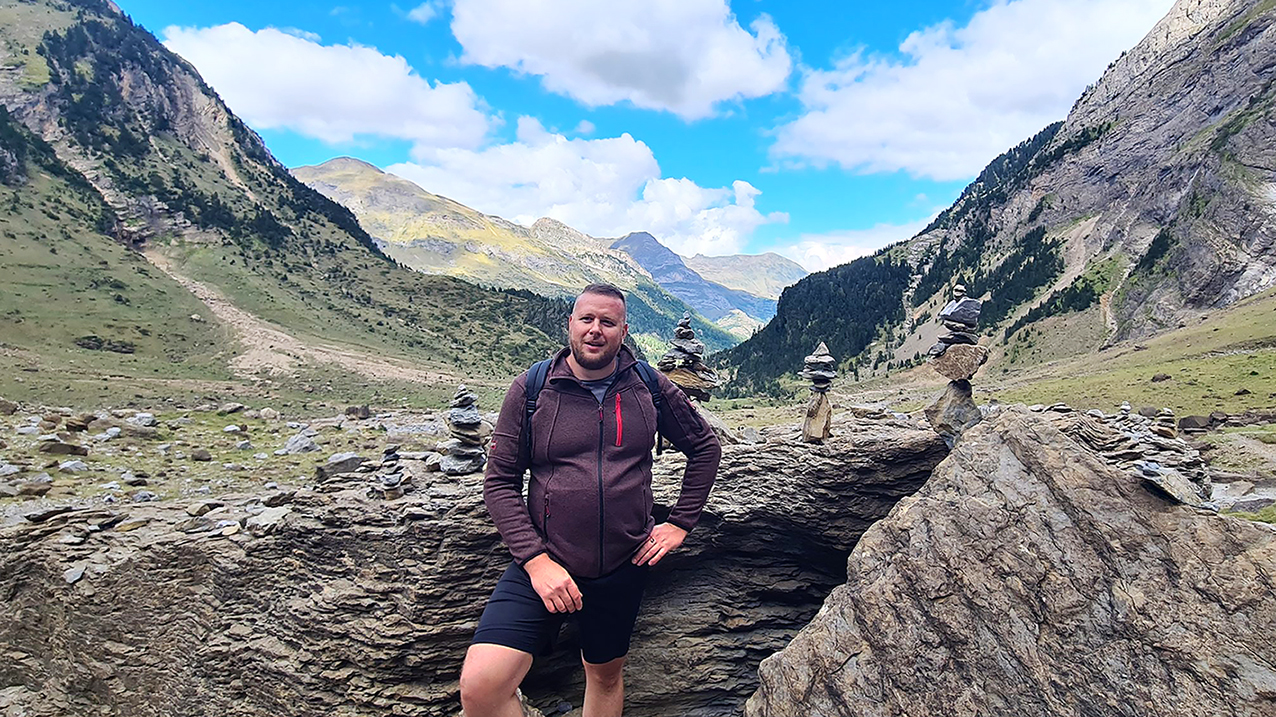
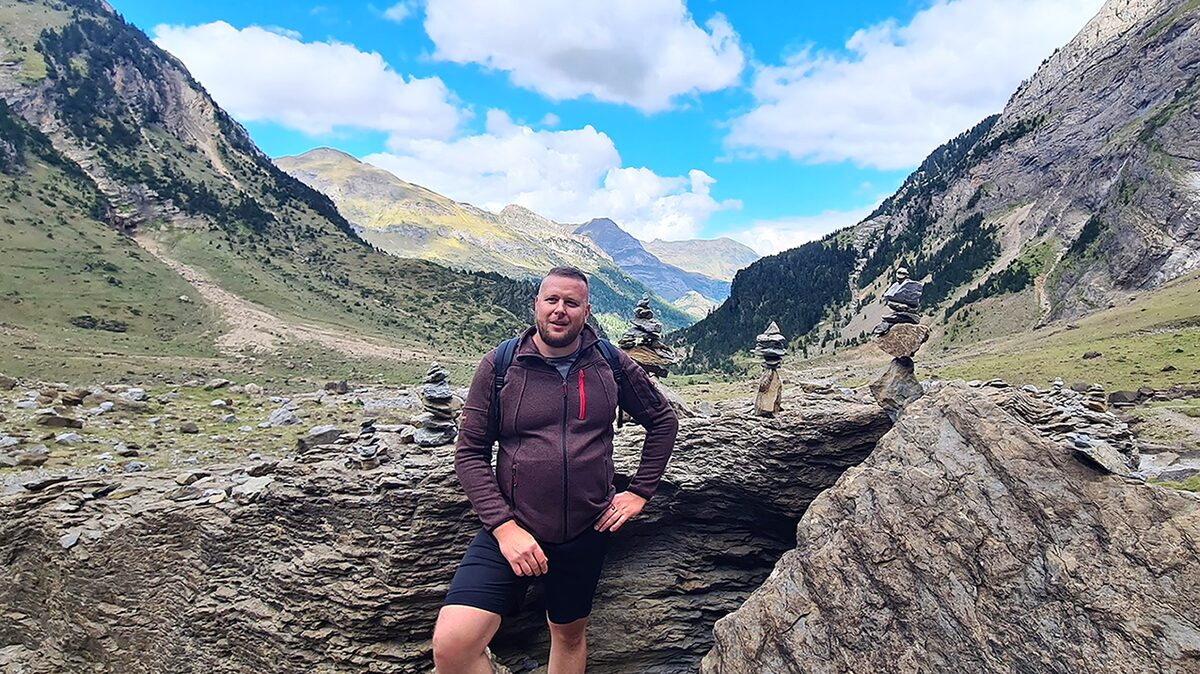
chore: enable Next.js image optimization and convert profile image to WebP

diff --git a/next.config.js b/next.config.js
@@ -1,9 +1,6 @@
 /** @type {import('next').NextConfig} */
 const nextConfig = {
   reactStrictMode: true,
-  images: {
-    unoptimized: true,
-  },
   // Optimisations pour améliorer le LCP
   experimental: {
     optimizePackageImports: ['framer-motion', 'gsap'],

diff --git a/src/components/About.tsx b/src/components/About.tsx
@@ -126,7 +126,7 @@ const About = () => {
               <div className="relative w-full max-w-xs rounded-2xl overflow-hidden shadow-md border border-border-light">
                 <div className="relative w-full" style={{ paddingBottom: "100%" }}>
                   <Image
-                    src="/profile-placeholder.jpg"
+                    src="/profile-placeholder.webp"
                     alt="Portrait du technicien systèmes et réseaux"
                     fill
                     sizes="(max-width: 768px) 80vw, 300px"